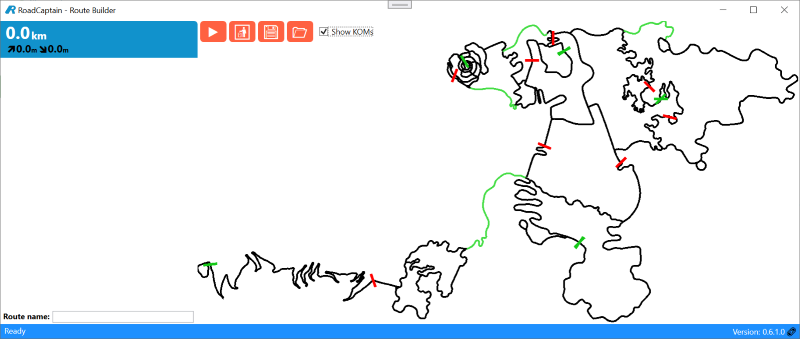
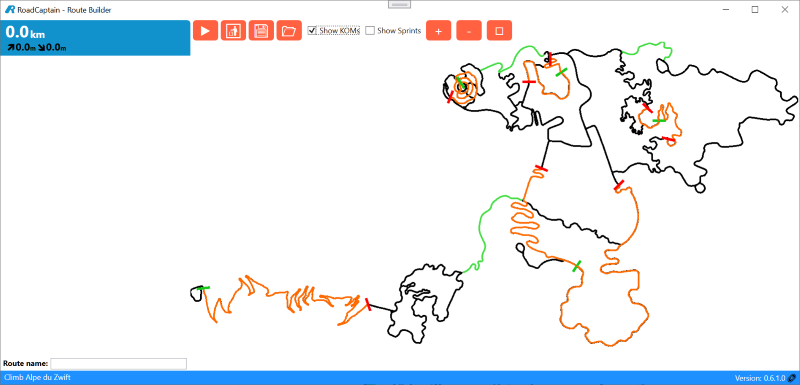
Update changelog

Changed region(s): [[0.0, 0.0, 1.0, 1.0], [0.4688, 0.0, 0.5312, 0.0295], [0.9375, 0.0, 0.9688, 0.0295]]

diff --git a/Changelog.md b/Changelog.md
@@ -13,7 +13,8 @@
 - Fixed a layout issue where the buttons would overlap the map if the window is resized to a relatively small size.
 - Show a warning when you select a segment that can't be reached from the spawn point ([issue #33](https://github.com/sandermvanvliet/RoadCaptain/issues/33))
 - Fix issue where the route path direction would be incorrect for the starting segment when the direction is reversed. This would show the start marker on the wrong end of the starting segment ([issue #33](https://github.com/sandermvanvliet/RoadCaptain/issues/33))
-- It is now possible to zoom and pan the map view ([issue #29](https://github.com/sandermvanvliet/RoadCaptain/issues/29))
+- It is now possible to zoom and pan the map view ([issue #29](https://github.com/sandermvanvliet/RoadCaptain/issues/29)):
+![Screen recording of panning and zooming the map in Route Builder](/images/route-builder-panzoom.gif)
 
 ### Runner
 
